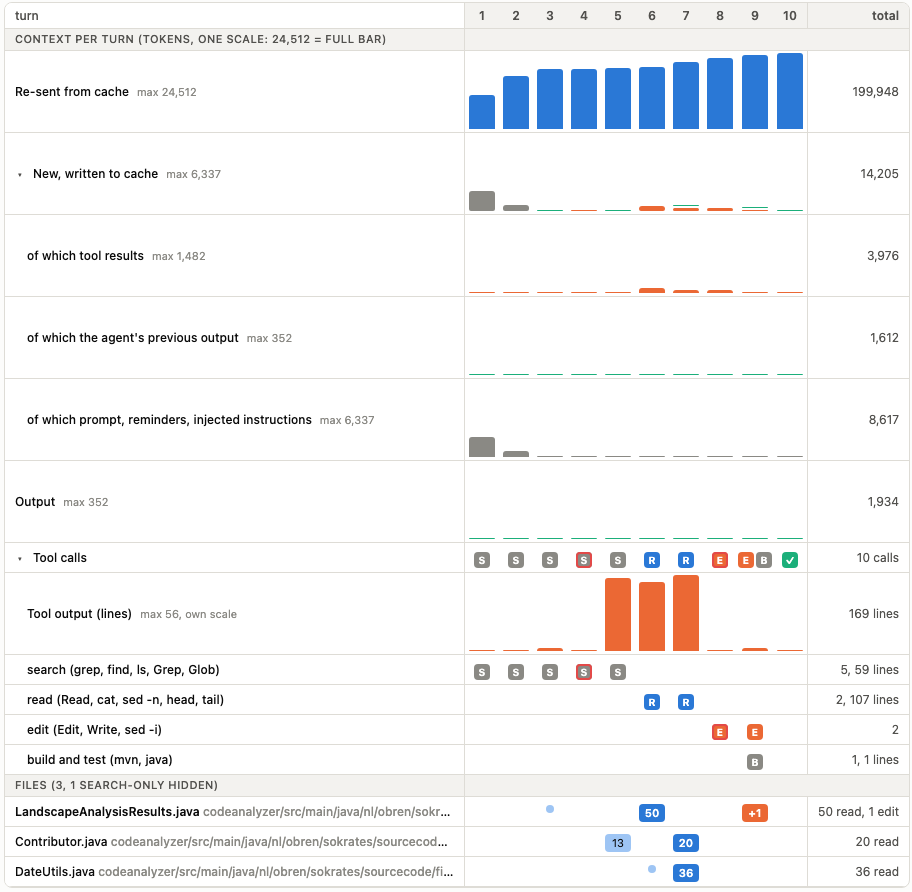
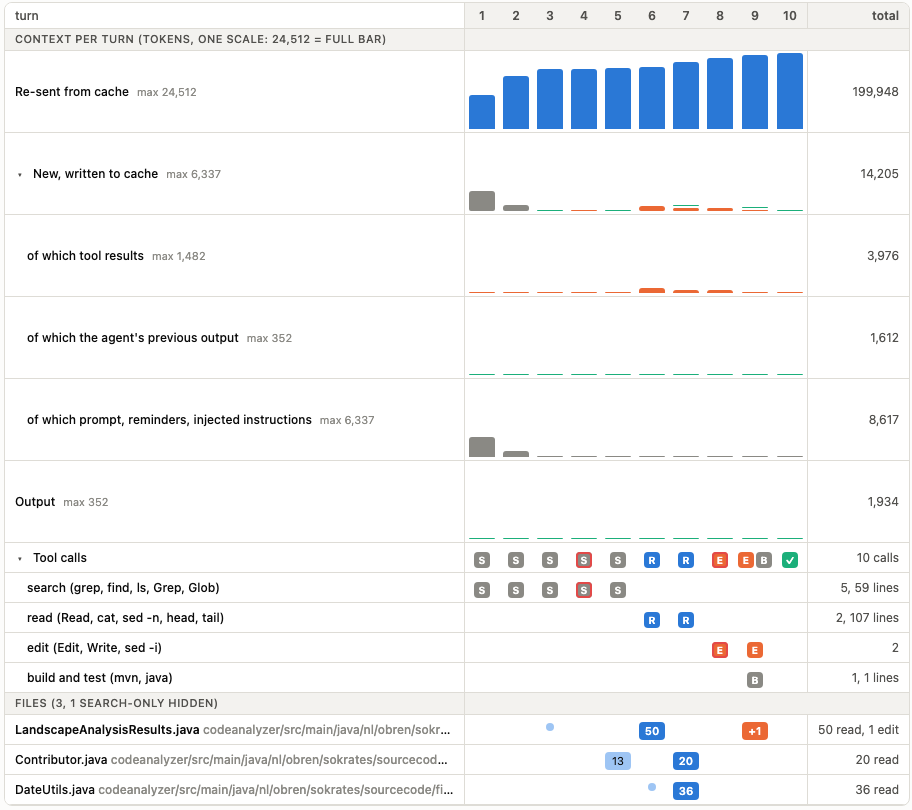
Trace page: drop the tool output lines row; post screenshot refreshed

diff --git a/docs/trace.html b/docs/trace.html
@@ -200,13 +200,6 @@ a { color: var(--read); }
       h += '</td>';
     });
     h += '<td class="total">' + turns.reduce(function (a, t) { return a + t.tools.filter(function (x) { return x.kind !== 'text'; }).length; }, 0) + ' calls</td></tr>';
-    var outLines = turns.map(function (t) { return t.tools.reduce(function (a, x) { return a + (x.lines || 0); }, 0); });
-    var outMax = Math.max.apply(null, outLines.concat([1]));
-    h += '<tr class="token sub sub-tools"><th class="head">\u2003Tool output (lines)<span class="n">max ' + fmt(outMax) + ', own scale</span></th>';
-    outLines.forEach(function (v, i) {
-      h += '<td class="cell" data-turn="' + i + '" data-v="' + fmt(v) + '" data-tip="' + esc('turn ' + (i + 1) + ': ' + fmt(v) + ' lines of tool output, in the context from the next turn on') + '"><span class="bar" style="--c:var(--write);height:' + Math.max(1, Math.round(76 * v / outMax)) + 'px"></span></td>';
-    });
-    h += '<td class="total">' + fmt(outLines.reduce(function (a, b) { return a + b; }, 0)) + ' lines</td></tr>';
     var KINDS = [['search', '\u2003search (grep, find, ls, Grep, Glob)'], ['read', '\u2003read (Read, cat, sed -n, head, tail)'], ['edit', '\u2003edit (Edit, Write, sed -i)'],
                  ['build', '\u2003build and test (mvn, java)'], ['vcs', '\u2003git'], ['shell', '\u2003other shell']];
     KINDS.forEach(function (k) {

diff --git a/scripts/trace_template.html b/scripts/trace_template.html
@@ -200,13 +200,6 @@ a { color: var(--read); }
       h += '</td>';
     });
     h += '<td class="total">' + turns.reduce(function (a, t) { return a + t.tools.filter(function (x) { return x.kind !== 'text'; }).length; }, 0) + ' calls</td></tr>';
-    var outLines = turns.map(function (t) { return t.tools.reduce(function (a, x) { return a + (x.lines || 0); }, 0); });
-    var outMax = Math.max.apply(null, outLines.concat([1]));
-    h += '<tr class="token sub sub-tools"><th class="head">\u2003Tool output (lines)<span class="n">max ' + fmt(outMax) + ', own scale</span></th>';
-    outLines.forEach(function (v, i) {
-      h += '<td class="cell" data-turn="' + i + '" data-v="' + fmt(v) + '" data-tip="' + esc('turn ' + (i + 1) + ': ' + fmt(v) + ' lines of tool output, in the context from the next turn on') + '"><span class="bar" style="--c:var(--write);height:' + Math.max(1, Math.round(76 * v / outMax)) + 'px"></span></td>';
-    });
-    h += '<td class="total">' + fmt(outLines.reduce(function (a, b) { return a + b; }, 0)) + ' lines</td></tr>';
     var KINDS = [['search', '\u2003search (grep, find, ls, Grep, Glob)'], ['read', '\u2003read (Read, cat, sed -n, head, tail)'], ['edit', '\u2003edit (Edit, Write, sed -i)'],
                  ['build', '\u2003build and test (mvn, java)'], ['vcs', '\u2003git'], ['shell', '\u2003other shell']];
     KINDS.forEach(function (k) {
